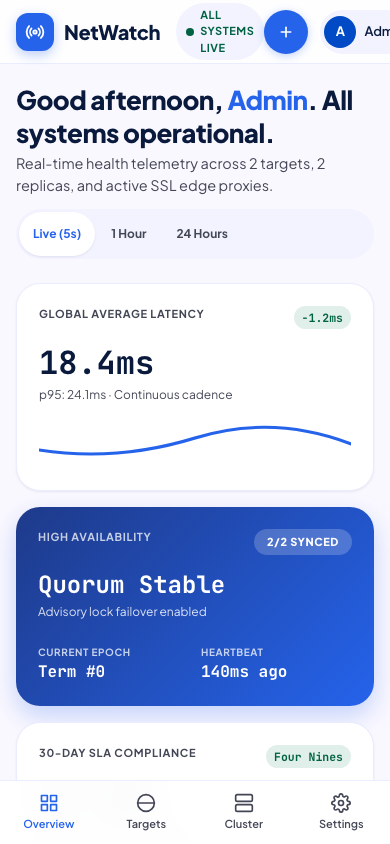
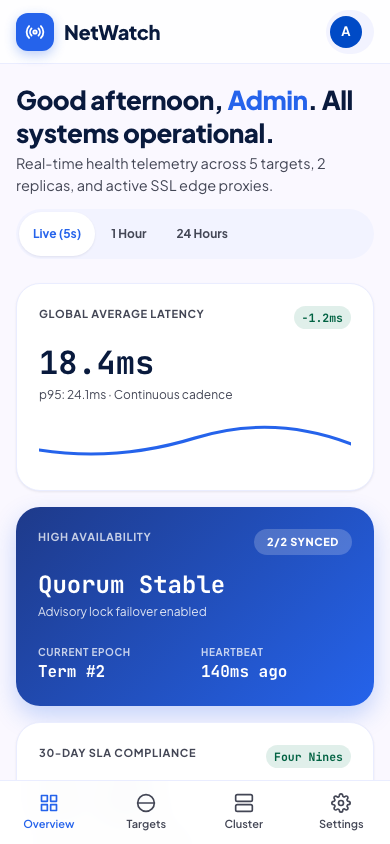
feat: add infrastructure, observability configs, automated load testing, and deployment documentation

diff --git a/netwatch/static/index.html b/netwatch/static/index.html
@@ -42,14 +42,6 @@
           </div>
           <span class="brand-name">NetWatch</span>
         </a>
-
-        <div class="status-pill status-pill-live" id="globalStatusPill">
-          <span class="live-beacon">
-            <span class="beacon-pulse"></span>
-            <span class="beacon-dot"></span>
-          </span>
-          <span class="status-pill-text" id="globalStatusText">ALL SYSTEMS LIVE</span>
-        </div>
       </div>
 
       <!-- Center Desktop Navigation Pills -->

diff --git a/netwatch/static/app.css b/netwatch/static/app.css
@@ -373,12 +373,20 @@ button, input, select {
   display: inline-flex;
 }
 
-@media (max-width: 599px) {
-  .btn-add-target span {
-    display: none;
-  }
+@media (max-width: 899px) {
   .btn-add-target {
-    padding: 8px 12px;
+    display: none !important;
+  }
+  .user-role-label {
+    display: none !important;
+  }
+  .user-chip {
+    padding: 0;
+    background: transparent;
+  }
+  .user-avatar {
+    width: 36px;
+    height: 36px;
   }
 }
 

diff --git a/tests/test_e2e_playwright.py b/tests/test_e2e_playwright.py
@@ -100,7 +100,10 @@ async def test_admin_add_target_live_and_screenshots(ensure_cluster_running):
             await page.screenshot(path=str(SCREENS_DIR / f"targets_{suffix}.png"))
 
             # Open Add Target Bottom Sheet
-            await page.click("#openAddTargetBtn")
+            if await page.is_visible("#openAddTargetBtn"):
+                await page.click("#openAddTargetBtn")
+            else:
+                await page.click("button:has-text('Add target')")
             await page.wait_for_selector("#addTargetSheet:not(.hidden)")
             await page.wait_for_timeout(400)
             await page.screenshot(path=str(SCREENS_DIR / f"add_target_modal_{suffix}.png"))
